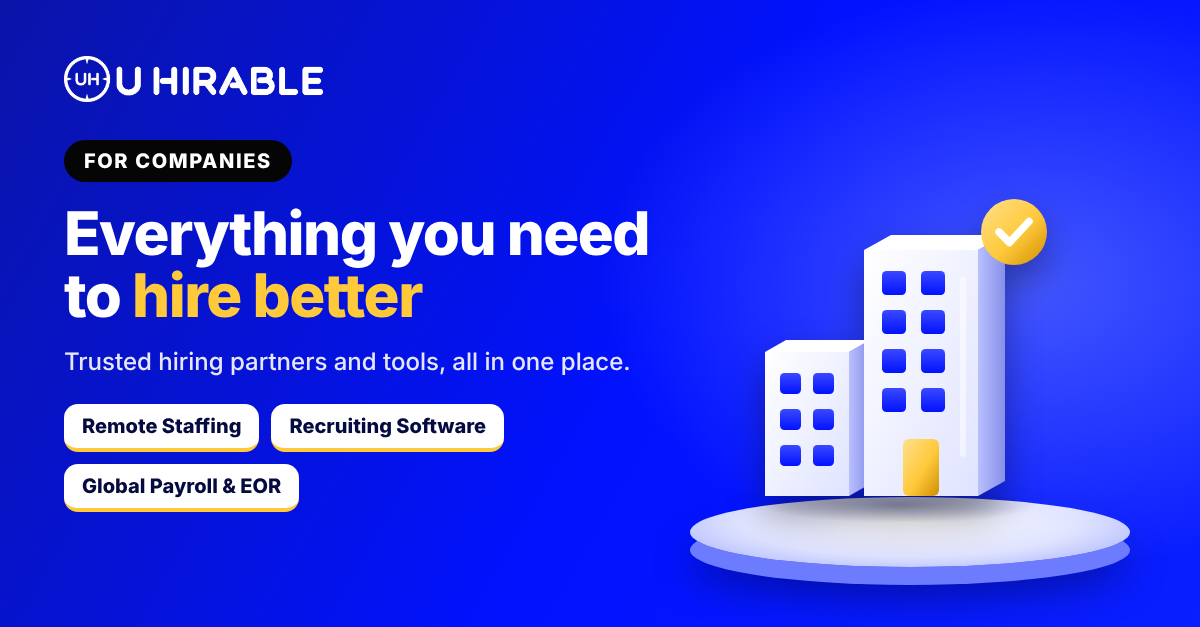
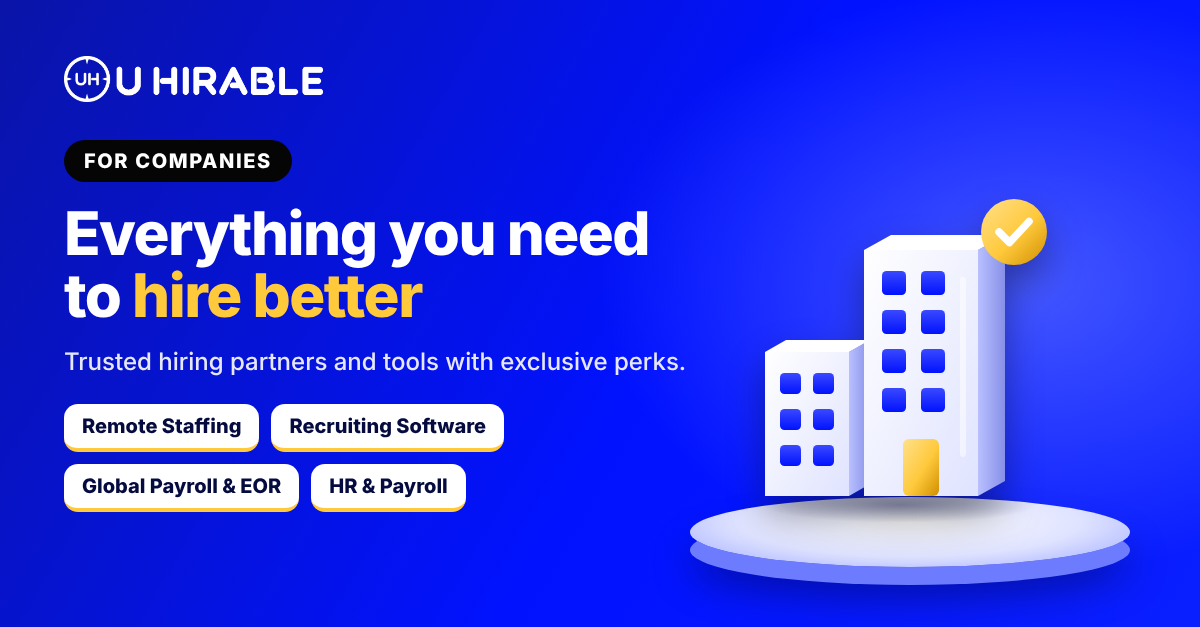
Add files via upload

Changed region(s): [[0.2467, 0.7273, 0.4008, 0.8182], [0.37, 0.5455, 0.5858, 0.6061]]

diff --git a/partners.html b/partners.html
@@ -4,11 +4,11 @@
   <meta charset="UTF-8">
   <meta name="viewport" content="width=device-width, initial-scale=1.0">
   <title>For Companies – U Hirable</title>
-  <meta name="description" content="Remote staffing, recruiting software and global payroll. Trusted hiring partners and tools for companies, all in one place.">
+  <meta name="description" content="Remote staffing, recruiting software, HR and global payroll. Trusted hiring partners and tools with exclusive perks, all in one place.">
   <meta property="og:type" content="website">
   <meta property="og:site_name" content="U Hirable">
   <meta property="og:title" content="Everything your company needs to hire | U Hirable">
-  <meta property="og:description" content="Remote staffing, recruiting software and global payroll. Trusted hiring partners and tools for companies, all in one place.">
+  <meta property="og:description" content="Remote staffing, recruiting software, HR and global payroll. Trusted hiring partners and tools with exclusive perks, all in one place.">
   <meta property="og:url" content="https://uhirable.github.io/jobs/partners.html">
   <meta property="og:image" content="https://uhirable.github.io/jobs/og-partners.png">
   <meta property="og:image:width" content="1200">
@@ -18,7 +18,7 @@
   <link rel="preconnect" href="https://fonts.googleapis.com">
   <link rel="preconnect" href="https://fonts.gstatic.com" crossorigin>
   <link href="https://fonts.googleapis.com/css2?family=Plus+Jakarta+Sans:wght@400;500;600;700;800&display=swap" rel="stylesheet">
-  <link rel="stylesheet" href="style.css?v=15">
+  <link rel="stylesheet" href="style.css?v=16">
 </head>
 <body>
   <header class="topbar">
@@ -37,7 +37,7 @@
   <section class="page-hero"><div class="container">
     <span class="eyebrow"><span class="dot"></span> For Companies</span>
     <h1>Everything you need to <span class="hl">hire better</span></h1>
-    <p class="lead">From remote staffing and recruiting software to global payroll, trusted partners and tools with exclusive perks to help your company find, hire and manage great talent.</p>
+    <p class="lead">From remote staffing and recruiting software to HR and global payroll, trusted partners and tools with exclusive perks to help your company find, hire and manage great talent.</p>
   </div></section>
   <section class="container partners-wrap"><div class="partners" id="partners"></div></section>
   <section class="container partners-share-wrap"><div class="partners-share share">
@@ -50,7 +50,7 @@
     <small id="copy-status" class="copy-status" role="status"></small>
   </div></section>
 </main>
-<script src="partners.js?v=16"></script>
+<script src="partners.js?v=17"></script>
 <script>
 const esc=(s="")=>String(s).replace(/[&<>"']/g,c=>({"&":"&amp;","<":"&lt;",">":"&gt;",'"':"&quot;","'":"&#39;"}[c]));
 document.getElementById("partners").innerHTML=PARTNERS.map(p=>`

diff --git a/partners.js b/partners.js
@@ -50,5 +50,16 @@ const PARTNERS = [
     cta: "Start Free",
     roles: ["Employer of Record (120+ countries)", "Contractors (180+ countries)", "Global Payroll", "No Setup Fees", "Free Onboarding & Offboarding", "HR Expert Support", "Benefits & Perks", "Free Cost Calculator"],
     link: "https://oyster.partnerlinks.io/iqgrt27whv78"
+  },
+  {
+    name: "greytHR",
+    deal: "10% OFF",
+    logo: "logo-greythr.png",
+    tag: "HR & Payroll Software",
+    tagline: "All-in-one HR and payroll trusted by 33,000+ companies across the GCC, India and 30+ countries.",
+    perk: "10% off annual plans through U Hirable + a free account to start",
+    cta: "Get 10% Off",
+    roles: ["Payroll for UAE, KSA, Qatar, Oman, Bahrain & Kuwait", "WPS File Generation", "Multi-country Payroll", "Leave & Attendance", "Employee Self-Service App", "Performance Management", "Recruitment", "Expense Management"],
+    link: "https://greythr.referralrock.com/l/AMELMOUSSA04/"
   }
 ];

diff --git a/style.css b/style.css
@@ -602,6 +602,7 @@ textarea { resize: vertical; }
 .partners-share-wrap{padding-bottom:90px;margin-top:-50px}
 .partners-share{margin:0 auto;max-width:640px;background:linear-gradient(135deg,var(--brand-800,#0a14a8),var(--brand,#0112ff));color:#fff;border-radius:var(--radius);padding:24px 24px 14px;border-top:none}
 @media (min-width:1100px){.partners:has(.partner:nth-child(3)):not(:has(.partner:nth-child(4))){grid-template-columns:repeat(3,1fr)}}
+@media (min-width:861px){.partners:has(.partner:nth-child(4)) .partner:last-child:nth-child(odd){grid-column:1/-1;justify-self:center;width:calc(50% - 13px)}}
 
 /* big perk highlight – green coupon */
 .p-deal{position:relative;display:flex;align-items:center;gap:16px;background:linear-gradient(135deg,#0fbf6a,#08a35a 55%,#067a44);color:#fff;border-radius:18px;padding:18px 20px;overflow:hidden;box-shadow:0 14px 28px -12px rgba(6,122,68,.65)}
